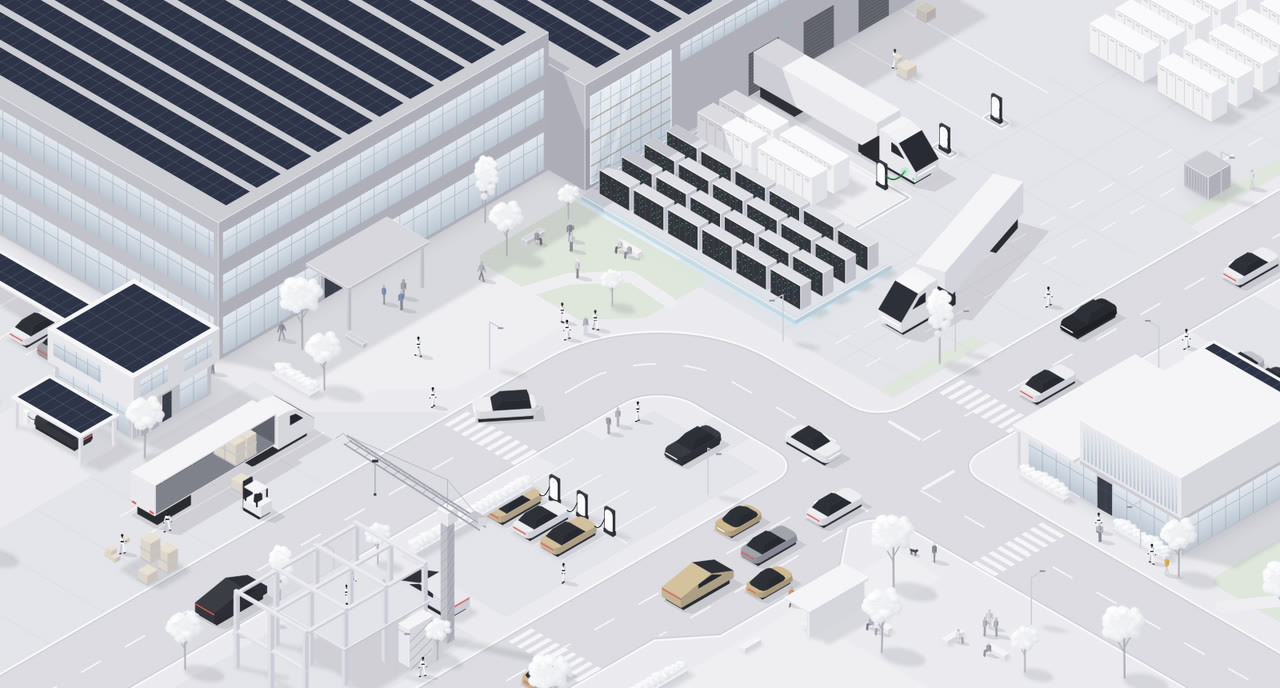
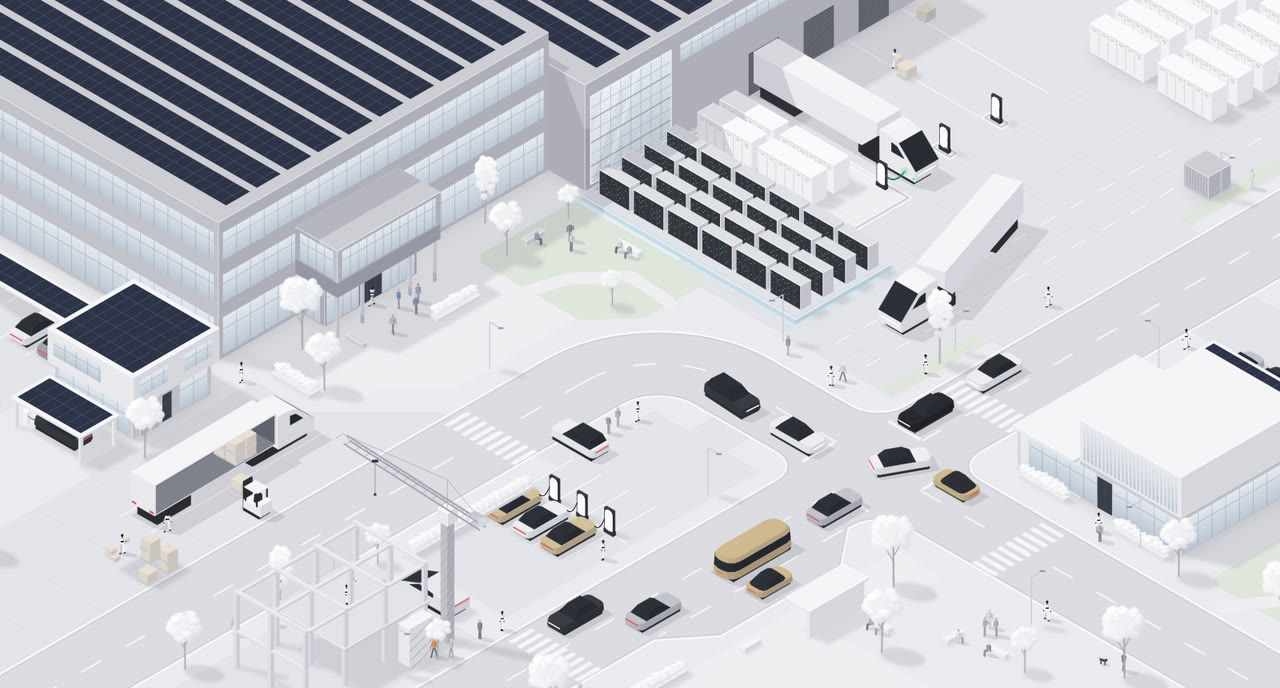
Give the factory a two-storey glazed main entrance
The plaza entrance was a flat canopy on two posts. It is now a glazed front
in the spirit of a modern factory entrance:

- world/entrance.ts: upstairs, a band of glass over a dark fascia (left blank;
  the scene shows no lettering); below it, the ground floor's glass set back
  under the floor above, a dark doorway in the middle and slim columns along
  the edge. Both glass faces glow at night and light the plaza (litFaces).
- A long planter on the plaza in front of the doors.
- The walkway's door node moves to the new doorway, just clear of the glass
  box so a walker there never overlaps it; the chat group by the door shifts
  out from under the columns.
- Checked: no flicker around the entrance over 900 frames, check:sim 30 with
  0 collisions and 0 people touched. docs/engine.md, re-recorded previews.

Claude-Session: https://claude.ai/code/session_012ySDijcC9S9qEJByotkpyp

diff --git a/src/engine/world/entrance.ts b/src/engine/world/entrance.ts
@@ -1,0 +1,55 @@
+// The factory's main entrance on the plaza: a two-storey glazed front set on the factory's east face. Upstairs, a
+// band of glass over a dark fascia (left blank: the scene shows no lettering); below it, the ground floor's glass is
+// set back under the floor above, slim columns along the edge, with a dark doorway in the middle where people come
+// and go (the walkway's door node).
+
+import { onFaceX, onFaceY } from '../draw';
+import { BoxItem } from '../statics';
+import { windowsX, windowsY, type Band, type LitFace } from '../details';
+import type { Env } from '../activities/activity';
+
+/** the doorway, just in front of the recessed ground floor (a walker standing here must not overlap its box) */
+export const ENTRANCE_DOOR = { x: 29.0, y: 58.0 };
+
+const X0 = 26, X1 = 30.6, Y0 = 52.4, Y1 = 63.6;
+/** the set-back ground floor's front */
+const GX = 28.6;
+const FLOOR = 4.0, TOP = 8.4;
+
+export function entrance(env: Env, edge: string) {
+  const { pal, statics: S } = env;
+  // upstairs: glazing above, the dark fascia below it
+  const upper: Band[] = [{ top: 0.3, bot: 2.9, every: 0.9 }];
+  const fascia = (ctx: CanvasRenderingContext2D, w: number) => {
+    ctx.fillStyle = pal.factoryDark.right;
+    ctx.fillRect(0, 3.05, w, TOP - FLOOR - 3.05);
+  };
+  S.push(
+    new BoxItem(X0, Y0, FLOOR, X1, Y1, TOP, pal.factory, { edge }, (r) => {
+      windowsX(r, pal, X1, Y0, Y1, TOP, upper);
+      windowsY(r, pal, X0, X1, Y1, TOP, upper);
+      onFaceX(r, X1, Y0, Y1, TOP, fascia);
+      onFaceY(r, X0, X1, Y1, TOP, fascia);
+    }),
+  );
+  // the ground floor, set back: glass either side of the dark doorway (u runs from y1 towards y0 on the +x face)
+  const gy0 = Y0 + 0.6, gy1 = Y1 - 0.6, door = gy1 - ENTRANCE_DOOR.y;
+  const ground: Band[] = [
+    { top: 0.25, bot: FLOOR - 0.05, every: 0.9, spans: [[0.2, door - 1.3], [door + 1.3, gy1 - gy0 - 0.2]] },
+    { top: 0.9, bot: FLOOR - 0.02, every: 0.85, spans: [[door - 1.2, door + 1.2]], dark: true },
+  ];
+  S.push(
+    new BoxItem(X0, gy0, 0, GX, gy1, FLOOR, pal.factory, { edge }, (r) => {
+      windowsX(r, pal, GX, gy0, gy1, FLOOR, ground);
+      windowsY(r, pal, X0, GX, gy1, FLOOR, [{ top: 0.25, bot: FLOOR - 0.05, every: 0.9 }]);
+    }),
+  );
+  // slim columns along the front edge, clear of the walk to the door
+  for (const y of [Y0 + 0.3, 55.4, 60.6, Y1 - 0.3]) S.push(new BoxItem(X1 - 0.42, y - 0.11, 0, X1 - 0.2, y + 0.11, FLOOR, pal.white));
+}
+
+/** The entrance's glazed faces, for the light they throw on the plaza at night (see windowSpill). */
+export const ENTRANCE_FACES: LitFace[] = [
+  [X1, Y0, X1, Y1, 1, 0],
+  [GX, Y0 + 0.6, GX, Y1 - 0.6, 1, 0],
+];

diff --git a/src/engine/world/buildings.ts b/src/engine/world/buildings.ts
@@ -10,6 +10,7 @@ import { atrium, solarRoof, windowGlow, windowsX, windowsY, type Band } from '..
 import { BoxItem, FnItem } from '../statics';
 import { MESH } from '../traffic/meshes';
 import { charger } from './chargers';
+import { entrance } from './entrance';
 import { Crane } from '../activities/crane';
 import { Looper } from '../activities/looper';
 import type { TruckYard } from '../activities/truckYard';
@@ -39,10 +40,8 @@ export function factory(env: Env, edge: string, yard: TruckYard) {
       solarRoof(r, pal, -40, 36, 26, 72, 13, 1.2, 2.6);
     }),
   );
-  // entrance canopy and its posts
-  S.push(new BoxItem(26, 53.6, 4.05, 30.6, 62.4, 4.35, pal.white, { edge }));
-  S.push(new BoxItem(30.1, 53.9, 0, 30.35, 54.15, 4.05, pal.white));
-  S.push(new BoxItem(30.1, 61.85, 0, 30.35, 62.1, 4.05, pal.white));
+  // the main entrance on the plaza
+  entrance(env, edge);
 
   // dock wing with roll-up doors and a tall atrium window above the compute platform
   const dockDoors = [...yard.docks.map((d) => d.y), yard.bay.y];

diff --git a/src/engine/world/groundPlan.ts b/src/engine/world/groundPlan.ts
@@ -9,6 +9,7 @@ import type { Palette } from '../palette';
 import type { ChargingLot } from '../activities/chargingLot';
 import type { Outskirts } from './outskirts';
 import { POCKET_LAWN, POCKET_PATH } from './streetLife';
+import { ENTRANCE_FACES } from './entrance';
 
 /** The ground layer: paved pads, plaza, lawns, roads with curbs and markings, and at night the light from windows. */
 export function groundPainter(pal: Palette, lot: ChargingLot, outskirts: Outskirts) {
@@ -35,6 +36,7 @@ export function groundPainter(pal: Palette, lot: ChargingLot, outskirts: Outskir
   const litFaces: LitFace[] = [
     [26, 36, 26, 72, 1, 0], [-40, 72, 26, 72, 0, 1], [30, 26.6, 30, 35.4, 1, 0], [30, 0.4, 30, 25.6, 1, 0],
     [80, 38, 97, 38, 0, 1], [97, 26, 97, 38, 1, 0], [20.4, 84.2, 28.8, 84.2, 0, 1], [28.8, 75.6, 28.8, 84.2, 1, 0],
+    ...ENTRANCE_FACES,
     ...outskirts.litFaces,
   ];
   const ground = (ctx: Ctx) => {

diff --git a/src/engine/world/walkways.ts b/src/engine/world/walkways.ts
@@ -4,6 +4,7 @@ import type { WalkGraph } from '../people/crowd';
 import type { Outskirts } from './outskirts';
 import type { RoadZones } from './roads';
 import { POCKET_PATH } from './streetLife';
+import { ENTRANCE_DOOR } from './entrance';
 
 /** The walkway graph: both pavements of the avenue and the street, the crossings, the plaza, the parks and the doors. */
 export function walkways(g: WalkGraph, z: RoadZones, outskirts: Outskirts) {
@@ -56,7 +57,7 @@ export function walkways(g: WalkGraph, z: RoadZones, outskirts: Outskirts) {
   g.link(fd, fe[1], LD);
   g.chain(fe.slice(1));
   g.link(fw1, fe[1], CW1);
-  const door = g.node(26.8, 58.0, true);
+  const door = g.node(ENTRANCE_DOOR.x, ENTRANCE_DOOR.y, true);
   const p = [g.node(29.2, 58.6), g.node(36, 61.2), g.node(41.2, 61.6), g.node(29.0, 50.0), g.node(41, 50.2)];
 
   g.chain([door, p[0], p[1]]);

diff --git a/src/engine/world/streetLife.ts b/src/engine/world/streetLife.ts
@@ -31,6 +31,8 @@ export function streetFurniture(env: Env, sprites: Sprites, edge: string) {
   const hedges: number[][] = [
     [30.4, 69.6, 34.6, 70.6], [54.7, 67.0, 55.3, 79.8], [80.6, 76.0, 81.2, 86.0],
     [80.8, 38.85, 85.6, 39.35], [91, 38.85, 96.6, 39.35],
+    // the planter on the plaza in front of the entrance
+    [33.6, 51.8, 34.4, 56.4],
   ];
   hedges.forEach((h, i) => S.push(new HedgeItem(sprites, h[0], h[1], h[2], h[3], pal.planter, i)));
   const lamps: number[][] = [

diff --git a/src/engine/world/world.ts b/src/engine/world/world.ts
@@ -78,7 +78,7 @@ export function buildWorld(pal: Palette, sprites: Sprites, opts: WorldOptions): 
   constructionSite(env, edge, acts);
   streetFurniture(env, sprites, edge);
   // people chatting; robots join in on the streets, but the parks are for staff on their break
-  chat(env, [[30.2, 56.0], [31.2, 57.2], [29.7, 57.6]]);
+  chat(env, [[31.4, 55.6], [32.4, 56.8], [30.9, 57.2]]);
   chat(env, [[90.2, 40.2], [91.2, 41.0]]);
   chat(env, [[54.0, 56.4], [54.2, 57.6]]);
 

diff --git a/docs/engine.md b/docs/engine.md
@@ -25,8 +25,8 @@ Every file stays under 300 lines; split by responsibility when one grows past th
 - `world/` the layout. `world.ts` builds it all in a fixed order (everything draws from one seeded random stream,
   so moving a call changes the scene): `roads.ts` zones and through traffic, `buildings.ts` the factory, dock wing,
   pavilion, home and construction site, `streetLife.ts` trees, lamps, benches, the pocket park and people standing
-  about, `walkways.ts` the walkway graph, `groundPlan.ts` the cached ground layer, `chargers.ts` the charging bay's posts and
-  their glowing cable, `outskirts.ts` what lies beyond
+  about, `walkways.ts` the walkway graph, `groundPlan.ts` the cached ground layer, `chargers.ts` the yard's chargers (posts and
+  glowing cable in `../charging.ts`), `entrance.ts` the factory's glazed main entrance, `outskirts.ts` what lies beyond
   the classic frame for wide views (factory wing, staff car park, second compute platform, Megapack field, charging
   hub, staff park).
 - `blocks.ts` builders used in both: `rackPlatform` (server racks with the glowing edge) and `megapacks`;
